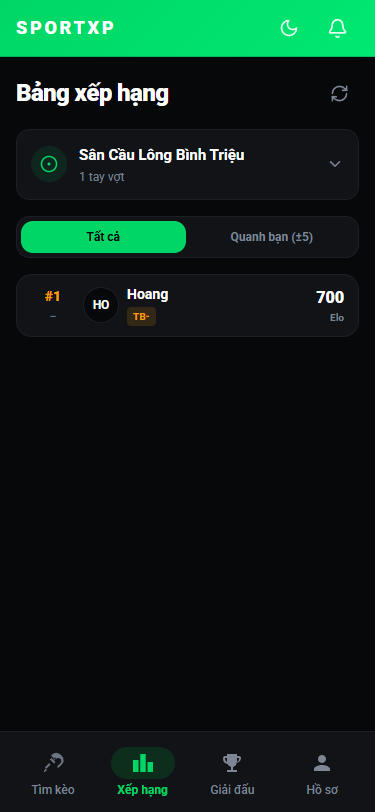
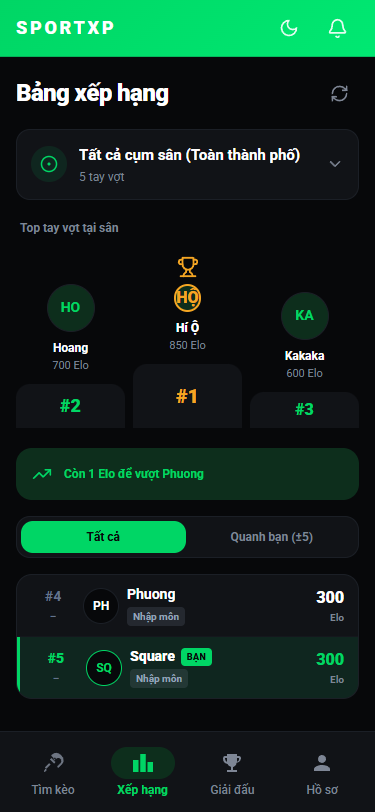
fix(rankings): default to all courts so full podium and player roster are visible

diff --git a/src/features/rankings/data/leaderboardRepository.ts b/src/features/rankings/data/leaderboardRepository.ts
@@ -36,18 +36,28 @@ export class SupabaseLeaderboardRepository {
         .select('id, name, distance_km')
         .order('name', { ascending: true });
       if (error || !data) return [];
-      return data.map((r: any) => ({
-        id: r.id,
-        name: r.name,
-        distance_km: r.distance_km,
-        distanceKm: r.distance_km,
-      }));
+      
+      const courtItems: Court[] = [
+        {
+          id: 'all',
+          name: 'Tất cả cụm sân (Toàn thành phố)',
+          distance_km: undefined,
+          distanceKm: undefined,
+        },
+        ...data.map((r: any) => ({
+          id: r.id,
+          name: r.name,
+          distance_km: r.distance_km,
+          distanceKm: r.distance_km,
+        })),
+      ];
+      return courtItems;
     } catch {
       return [];
     }
   }
 
-  async getCourtLeaderboard(courtId: string, limit?: number): Promise<PlayerProfile[]> {
+  async getCourtLeaderboard(courtId: string = 'all', limit?: number): Promise<PlayerProfile[]> {
     if (!supabase) return [];
     try {
       let query = supabase
@@ -55,9 +65,12 @@ export class SupabaseLeaderboardRepository {
         .select(LEADERBOARD_COLUMNS)
         .not('elo_rating', 'is', null)
         .eq('onboarding_step', 5)
-        .eq('home_court_id', courtId)
         .order('elo_rating', { ascending: false })
         .order('id', { ascending: true });
+
+      if (courtId && courtId !== 'all') {
+        query = query.eq('home_court_id', courtId);
+      }
 
       if (limit && limit > 0) {
         query = query.limit(limit);
@@ -90,7 +103,7 @@ export class SupabaseLeaderboardRepository {
     }
   }
 
-  async getNearbyPlayers(courtId: string, playerId: string, radius = 5): Promise<PlayerProfile[]> {
+  async getNearbyPlayers(courtId: string = 'all', playerId: string, radius = 5): Promise<PlayerProfile[]> {
     const all = await this.getCourtLeaderboard(courtId);
     const index = all.findIndex((p) => p.id === playerId);
     if (index === -1) {
@@ -101,7 +114,7 @@ export class SupabaseLeaderboardRepository {
     return all.slice(start, end);
   }
 
-  async getPlayerCourtRank(playerId: string, courtId: string): Promise<PlayerCourtRank | null> {
+  async getPlayerCourtRank(playerId: string, courtId: string = 'all'): Promise<PlayerCourtRank | null> {
     try {
       const list = await this.getCourtLeaderboard(courtId);
       const index = list.findIndex((p) => p.id === playerId);
@@ -120,7 +133,9 @@ export class SupabaseLeaderboardRepository {
       }
 
       const courts = await this.getCourts();
-      const courtName = courts.find((c) => c.id === courtId)?.name || 'Sân thi đấu';
+      const courtName = courtId === 'all'
+        ? 'Toàn hệ thống'
+        : (courts.find((c) => c.id === courtId)?.name || 'Sân thi đấu');
 
       return {
         rank,
